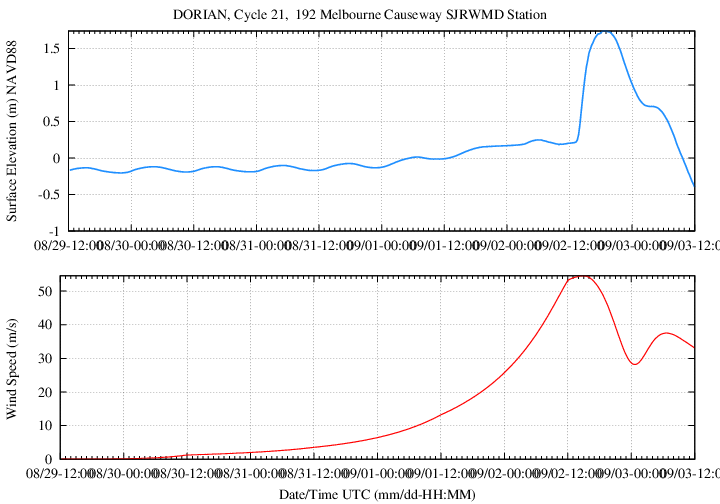
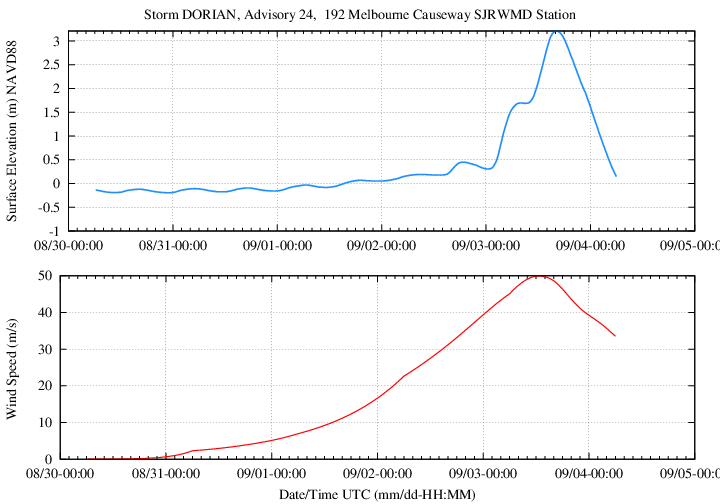
Latest Forecast

diff --git a/index.md b/index.md
@@ -7,9 +7,27 @@ This guidance is for use by official decision makers and does not represent an o
 <img src="http://www.nhc.noaa.gov/xgtwo/two_atl_2d0.png">
 source [National Hurricane Center (NHC)](http:\\nhc.noaa.gov)
 
-# Tropical Cyclone (Atlantic Basin): Latest forecast
+# Tropical Cyclone (Atlantic Basin): Storm 'DORIAN'
+*Real time [hydrographs and wind speed plots](/latest/tclatest_cycle.md) at Melbourne, Virgina Key, Lansing Island in South Banana River, and Sebastian are also available.*
 
-**There is no tropical storm/cyclone activity affecting the East Central Coast of Florida, or forecast results are not available yet** 
+Predicted water Levels (m NAVD88), and overlaid wind (m/s) in Atlantic Basin
+<p align="center">
+  <img src="/ECFL-IRL/plots/TC/elev_wind.gif">
+</p>
+
+**Trident Pier:** Hydrograph (m NAVD88) (Top) / Wind Speed (m/s) (Bottom)
+
+*Small-amplitude, high-frequency oscillations in water level are associated with numerical instability. We are currently working on solving this issue*
+
+<p align="center">
+  <img src="/ECFL-IRL/plots/TC/EW_Trident_Pier.png">
+</p>
+
+<img align="left" src="/ECFL-IRL/plots/TC/plot20001.jpg" height="660">
+<img align="right" src="/ECFL-IRL/plots/TC/plot30001.jpg" height="660" >
+Left: Peak Water Levels (m NAVD88) / Right: Max Significant Wave Height (m)
+
+*Real time [hydrographs and wind speed plots](/latest/tclatest_cycle.md) at Melbourne, Virgina Key, Lansing Island in South Banana River, and Sebastian are also available.*
 
 # Guidance Based on NAM Model 
 ### Three and a half days forecast results
@@ -30,7 +48,7 @@ Predicted water Levels (m NAVD88), and overlaid wind (m/s) in Atlantic Basin
 
 <img align="left" src="/ECFL-IRL/plots/NAM/plot20001.jpg" height="660">
 <img align="right" src="/ECFL-IRL/plots/NAM/plot30001.jpg" height="660" >
-Left: Peak Water Levels (m NAVD88) / Right: Max Significant Wave Height (m)
+Left: Maximum Surface Elevation (m)   Right: Maximum Wave Height (m)
 
 *Real time [hydrographs and wind speed plots](/latest/namlatest_cycle.md) at Melbourne, Virgina Key, Lansing Island in South Banana River, and Sebastian are also available.*
 
@@ -45,11 +63,10 @@ To predict wave characteristics, Simulating Waves Nearshore (SWAN), is tightly c
 In ADCIRC+SWAN, the ADCIRC model passes water level, current velocities, wind velocities, and friction roughness lengths to the SWAN model. SWAN then computes water depth, wave propagation, depth-induced breaking, and other wave processes. These wave characteristics are passed back to ADCIRC where the radiation stress gradients are evaluated at each vertex and used to compute the water level and current velocity at the next time step [[4](/reference/ref.md), [3](/reference/ref.md), [2](/reference/ref.md)].This data passing back-and-forth represents true two-way coupling, producing guidance that takes into account the relevant coastal physics. 
 
 ### ADCIRC Surge Guidance System 
-The SWAN+ADCIRC coupled model is normally run manually, one run at a time. As a result, in order to make this real time guidance available around the clock, the ADCIRC Surge Guidance System was used to efficiently and reliably automate the process of downloading the latest meteorological data, creating input files, running ADCIRC+SWAN, and post processing the output. The ASGS is open source software with many Official users and contributors, including the US Army Corps of Engineers (USACE), the National Hurricane Center (NHC), and the US Coast Guard (USCG) [[5](ECFL-IRL/reference/ref.md)]. More information is available at the [ASGS GitHub site](https://github.com/jasonfleming/asgs).
+The SWAN+ADCIRC coupled model is normally run manually, one run at a time. As a result, in order to make this real time guidance available around the clock, the ADCIRC Surge Guidance System was used to efficiently and reliably automate the process of downloading the latest meteorological data, creating input files, running ADCIRC+SWAN, and post processing the output. The ASGS is open source software with many Official users and contributors, including the US Army Corps of Engineers (USACE), the National Hurricane Center (NHC), and the US Coast Guard (USCG) [[5](ECFL-IRL/reference/ref.md)]. More information is available at the [ASGS GitHub site](https://github.com/jasonfleming/asgs). 
 
 ### Visualization
-[FigureGen](https://ccht.ccee.ncsu.edu/) is a FORTRAN program that acts as an interface between the SWAN+ADCIRC simulation files and the resulting illustrations . FigureGen is incorporated within the ASGS, and it is used to visualize forecast guidance. The visualization cores read the SWAN+ADCIRC files, convert the data into appropriate formats, and then call the [GMT](https://gmt.soest.hawaii.edu/) tools to generate contours, vectors, etc. Command-driven interactive plotting program; [gnuplot](http:\\www.gnuplot.info/), is also used to plot times series results at specific locations.
-
+[FigureGen](https://ccht.ccee.ncsu.edu/) is a FORTRAN program that acts as an interface between the SWAN+ADCIRC simulation files and the resulting illustrations. FigureGen is incorporated within the ASGS, and it is used to visualize forecast guidance. The visualization cores read the SWAN+ADCIRC files, convert the data into appropriate formats, and then call the [GMT](https://gmt.soest.hawaii.edu/) tools to generate contours, vectors, etc. Command-driven interactive plotting program; [gnuplot](http:\\www.gnuplot.info/), is also used to plot times series results at specific locations.
 click [here](/reference/ref.md) for references.
 
 ## Computational Resource
